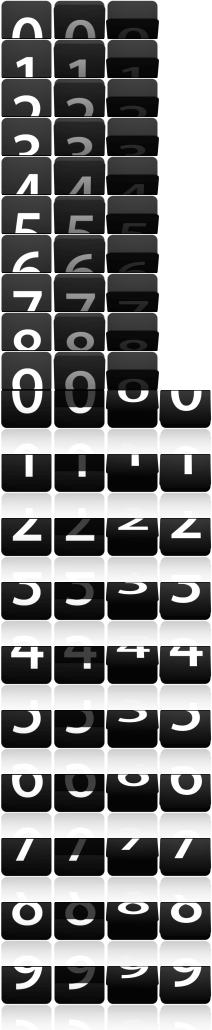
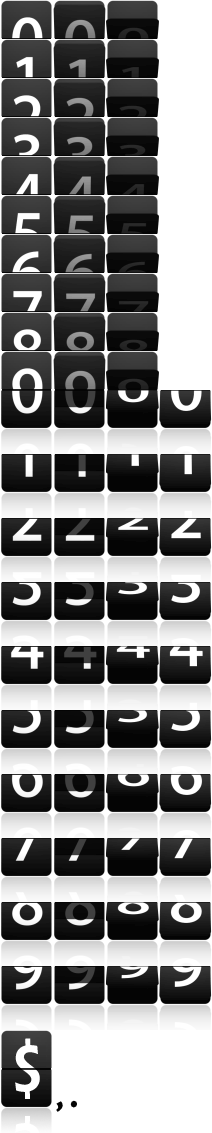
Changed default counter ID; basing styles on class name now so don't need to alter CSS for multiple counters; removed idPre because was pointless when needing to set a unique ID for each counter - just use that instead; added comma to digits sprite.

diff --git a/js/flipcounter.min.js b/js/flipcounter.min.js
@@ -1,6 +1,6 @@
 /**
  * Apple-Style Flip Counter
- * Version 0.5.2 - April 19, 2011 
+ * Version 0.5.3 - May 7, 2011 
  *
  * Copyright (c) 2010 Chris Nanney
  * http://cnanney.com/journal/code/apple-style-counter-revisited/
@@ -8,12 +8,12 @@
  * Licensed under MIT
  * http://www.opensource.org/licenses/mit-license.php
  */
-var flipCounter=function(x,B){function u(){l=a.value;a.value+=a.inc;h=a.value;r(l,h);a.auto===!0&&(n=setTimeout(u,a.pace))}function y(d,f,b){var c=a.value,e=typeof f=="undefined"?!1:f,g=typeof b=="undefined"?1:b;e===!0&&g--;c!=d?(l=a.value,a.auto=!0,c+a.inc<=d&&g!=0?c+=a.inc:c=d,a.value=c,h=a.value,r(l,h),n=setTimeout(function(){y(d,e,g)},a.pace)):a.auto=!1}function r(d,f){v=d.toString().split("").reverse();s=f.toString().split("").reverse();var b,c=v.length,e=s.length;if(e>c)for(b=e-c;b>0;){var g=
-s[e-b],m=Number(e-b+1)-1;i=j.createElement("ul");i.className="cd";i.id=a.idPre+"_d"+m;i.innerHTML='<li class="t" id="'+a.idPre+"_t_d"+m+'"></li><li class="b" id="'+a.idPre+"_b_d"+m+'"></li>';if(m%3==0)o=j.createElement("ul"),o.className="cd",o.innerHTML='<li class="s"></li>',k.insertBefore(o,k.firstChild);k.insertBefore(i,k.firstChild);j.getElementById(a.idPre+"_t_d"+m).style.backgroundPosition="0 -"+g*a.tFH+"px";j.getElementById(a.idPre+"_b_d"+m).style.backgroundPosition="0 -"+(g*a.bFH+a.bOffset)+
-"px";b--}if(e<c)for(b=c-e;b>0;){e=j.getElementById(a.idPre+"_d"+(c-b));k.removeChild(e);e=k.firstChild.firstChild;if((" "+e.className+" ").indexOf(" s ")>-1)e=e.parentNode,k.removeChild(e);b--}for(b=0;b<c;b++)s[b]!=v[b]&&C(b,v[b],s[b])}function C(d,f,b){function c(){if(g<7){m=g<3?"t":"b";if(h=j.getElementById(a.idPre+"_"+m+"_d"+d))h.style.backgroundPosition=i[g];g++;g!=3?setTimeout(c,e):c()}}var e,g=0,m,h,i=["-"+a.fW+"px -"+f*a.tFH+"px",a.fW*-2+"px -"+f*a.tFH+"px","0 -"+b*a.tFH+"px","-"+a.fW+"px -"+
-(f*a.bFH+a.bOffset)+"px",a.fW*-2+"px -"+(b*a.bFH+a.bOffset)+"px",a.fW*-3+"px -"+(b*a.bFH+a.bOffset)+"px","0 -"+(b*a.bFH+a.bOffset)+"px"];if(a.auto===!0&&a.pace<=300)switch(d){case 0:e=a.pace/6;break;case 1:e=a.pace/5;break;case 2:e=a.pace/4;break;case 3:e=a.pace/3;break;default:e=a.pace/1.5}else e=80;e=e>80?80:e;c()}function A(a,f,b,c,e){var g={result:!0};g.cond1=a/f>=1?!0:!1;g.cond2=f*b<=a?!0:!1;g.cond3=Math.abs(f*b-a)<=10?!0:!1;g.cond4=Math.abs(f*c-e)<=100?!0:!1;g.cond5=f*c<=e?!0:!1;if(g.cond1&&
-g.cond2&&g.cond4&&g.cond5){a=Math.abs(a-f*b)+Math.abs(f*c-e);if(p.q===null)p.q=a;if(a<=p.q)p.pace=c,p.inc=b}for(b=1;b<=5;b++)if(g["cond"+b]===!1)g.result=!1;return g}function q(a){return!isNaN(parseFloat(a))&&isFinite(a)}function z(){clearTimeout(n);n=null}var w={value:0,inc:1,pace:1E3,auto:!0,tFH:39,bFH:64,fW:53,bOffset:390,idPre:"counter"},a=B||{},j=window.document,k=x&&x!=""?j.getElementById(x):j.getElementById("counter"),t;for(t in w)a[t]=t in a?a[t]:w[t];var v=[],s=[],l,h,n=null,i,o,p={q:null,
-pace:0,inc:0};this.setValue=function(d){if(q(d))l=a.value,h=d,a.value=d,r(l,h);return this};this.setIncrement=function(d){a.inc=q(d)?d:w.inc;return this};this.setPace=function(d){a.pace=q(d)?d:w.pace;return this};this.setAuto=function(d){if(d&&!a.atuo)a.auto=!0,u();if(!d&&a.auto)n&&z(),a.auto=!1;return this};this.step=function(){a.auto||u();return this};this.add=function(d){if(q(d))l=a.value,a.value+=d,h=a.value,r(l,h);return this};this.subtract=function(d){if(q(d))l=a.value,a.value-=d,a.value>=0?
-h=a.value:(h="0",a.value=0),r(l,h);return this};this.incrementTo=function(d,f,b){n&&z();if(typeof f!="undefined"){var f=q(f)?f*1E3:1E4,b=typeof b!="undefined"&&q(b)?b:a.pace,c=typeof d!="undefined"&&q(d)?d-a.value:0,e,g,h,i=0;p.q=null;b=f/c>b?Math.round(f/c/10)*10:b;e=Math.floor(f/b);g=Math.floor(c/e);h=A(c,e,g,b,f);if(c>0){for(;h.result===!1&&i<100;)b+=10,e=Math.floor(f/b),g=Math.floor(c/e),h=A(c,e,g,b,f),i++;i==100?(a.inc=p.inc,a.pace=p.pace):(a.inc=g,a.pace=b);y(d,!0,e)}}else y(d)};this.getValue=
-function(){return a.value};this.stop=function(){n&&z();return this};(function(d){var d=d.toString(),f=d.length,b=1,c;for(c=0;c<f;c++){i=j.createElement("ul");i.className="cd";i.id=a.idPre+"_d"+c;i.innerHTML=i.innerHTML='<li class="t" id="'+a.idPre+"_t_d"+c+'"></li><li class="b" id="'+a.idPre+"_b_d"+c+'"></li>';k.insertBefore(i,k.firstChild);if(b!=f&&b%3==0)o=j.createElement("ul"),o.className="cd",o.innerHTML='<li class="s"></li>',k.insertBefore(o,k.firstChild);b++}d=d.toString().split("").reverse();
-for(c=0;c<f;c++)j.getElementById(a.idPre+"_t_d"+c).style.backgroundPosition="0 -"+d[c]*a.tFH+"px",j.getElementById(a.idPre+"_b_d"+c).style.backgroundPosition="0 -"+(d[c]*a.bFH+a.bOffset)+"px";a.auto===!0&&(n=setTimeout(u,a.pace))})(a.value)};
+var flipCounter=function(y,C){function v(){m=a.value;a.value+=a.inc;h=a.value;s(m,h);a.auto===!0&&(o=setTimeout(v,a.pace))}function z(d,f,b){var c=a.value,e=typeof f=="undefined"?!1:f,g=typeof b=="undefined"?1:b;e===!0&&g--;c!=d?(m=a.value,a.auto=!0,c+a.inc<=d&&g!=0?c+=a.inc:c=d,a.value=c,h=a.value,s(m,h),o=setTimeout(function(){z(d,e,g)},a.pace)):a.auto=!1}function s(d,f){w=d.toString().split("").reverse();t=f.toString().split("").reverse();var b,c=w.length,e=t.length;if(e>c)for(b=e-c;b>0;){var g=
+t[e-b],n=Number(e-b+1)-1;i=k.createElement("ul");i.className="cd";i.id=j+"_d"+n;i.innerHTML='<li class="t" id="'+j+"_t_d"+n+'"></li><li class="b" id="'+j+"_b_d"+n+'"></li>';if(n%3==0)p=k.createElement("ul"),p.className="cd",p.innerHTML='<li class="s"></li>',l.insertBefore(p,l.firstChild);l.insertBefore(i,l.firstChild);k.getElementById(j+"_t_d"+n).style.backgroundPosition="0 -"+g*a.tFH+"px";k.getElementById(j+"_b_d"+n).style.backgroundPosition="0 -"+(g*a.bFH+a.bOffset)+"px";b--}if(e<c)for(b=c-e;b>
+0;){e=k.getElementById(j+"_d"+(c-b));l.removeChild(e);e=l.firstChild.firstChild;if((" "+e.className+" ").indexOf(" s ")>-1)e=e.parentNode,l.removeChild(e);b--}for(b=0;b<c;b++)t[b]!=w[b]&&D(b,w[b],t[b])}function D(d,f,b){function c(){if(g<7){n=g<3?"t":"b";if(h=k.getElementById(j+"_"+n+"_d"+d))h.style.backgroundPosition=i[g];g++;g!=3?setTimeout(c,e):c()}}var e,g=0,n,h,i=["-"+a.fW+"px -"+f*a.tFH+"px",a.fW*-2+"px -"+f*a.tFH+"px","0 -"+b*a.tFH+"px","-"+a.fW+"px -"+(f*a.bFH+a.bOffset)+"px",a.fW*-2+"px -"+
+(b*a.bFH+a.bOffset)+"px",a.fW*-3+"px -"+(b*a.bFH+a.bOffset)+"px","0 -"+(b*a.bFH+a.bOffset)+"px"];if(a.auto===!0&&a.pace<=300)switch(d){case 0:e=a.pace/6;break;case 1:e=a.pace/5;break;case 2:e=a.pace/4;break;case 3:e=a.pace/3;break;default:e=a.pace/1.5}else e=80;e=e>80?80:e;c()}function B(a,f,b,c,e){var g={result:!0};g.cond1=a/f>=1?!0:!1;g.cond2=f*b<=a?!0:!1;g.cond3=Math.abs(f*b-a)<=10?!0:!1;g.cond4=Math.abs(f*c-e)<=100?!0:!1;g.cond5=f*c<=e?!0:!1;if(g.cond1&&g.cond2&&g.cond4&&g.cond5){a=Math.abs(a-
+f*b)+Math.abs(f*c-e);if(q.q===null)q.q=a;if(a<=q.q)q.pace=c,q.inc=b}for(b=1;b<=5;b++)if(g["cond"+b]===!1)g.result=!1;return g}function r(a){return!isNaN(parseFloat(a))&&isFinite(a)}function A(){clearTimeout(o);o=null}var x={value:0,inc:1,pace:1E3,auto:!0,tFH:39,bFH:64,fW:53,bOffset:390},a=C||{},k=window.document,j=typeof y!=="undefined"&&y!==""?y:"flip-counter",l=k.getElementById(j),u;for(u in x)a[u]=u in a?a[u]:x[u];var w=[],t=[],m,h,o=null,i,p,q={q:null,pace:0,inc:0};this.setValue=function(d){if(r(d))m=
+a.value,h=d,a.value=d,s(m,h);return this};this.setIncrement=function(d){a.inc=r(d)?d:x.inc;return this};this.setPace=function(d){a.pace=r(d)?d:x.pace;return this};this.setAuto=function(d){if(d&&!a.atuo)a.auto=!0,v();if(!d&&a.auto)o&&A(),a.auto=!1;return this};this.step=function(){a.auto||v();return this};this.add=function(d){if(r(d))m=a.value,a.value+=d,h=a.value,s(m,h);return this};this.subtract=function(d){if(r(d))m=a.value,a.value-=d,a.value>=0?h=a.value:(h="0",a.value=0),s(m,h);return this};this.incrementTo=
+function(d,f,b){o&&A();if(typeof f!="undefined"){var f=r(f)?f*1E3:1E4,b=typeof b!="undefined"&&r(b)?b:a.pace,c=typeof d!="undefined"&&r(d)?d-a.value:0,e,g,h,i=0;q.q=null;b=f/c>b?Math.round(f/c/10)*10:b;e=Math.floor(f/b);g=Math.floor(c/e);h=B(c,e,g,b,f);if(c>0){for(;h.result===!1&&i<100;)b+=10,e=Math.floor(f/b),g=Math.floor(c/e),h=B(c,e,g,b,f),i++;i==100?(a.inc=q.inc,a.pace=q.pace):(a.inc=g,a.pace=b);z(d,!0,e)}}else z(d)};this.getValue=function(){return a.value};this.stop=function(){o&&A();return this};
+(function(d){var f=d.toString(),d=f.length,b=1,c;for(c=0;c<d;c++){i=k.createElement("ul");i.className="cd";i.id=j+"_d"+c;i.innerHTML=i.innerHTML='<li class="t" id="'+j+"_t_d"+c+'"></li><li class="b" id="'+j+"_b_d"+c+'"></li>';l.insertBefore(i,l.firstChild);if(b!=d&&b%3==0)p=k.createElement("ul"),p.className="cd",p.innerHTML='<li class="s"></li>',l.insertBefore(p,l.firstChild);b++}f=f.toString().split("").reverse();for(c=0;c<d;c++)k.getElementById(j+"_t_d"+c).style.backgroundPosition="0 -"+f[c]*a.tFH+
+"px",k.getElementById(j+"_b_d"+c).style.backgroundPosition="0 -"+(f[c]*a.bFH+a.bOffset)+"px";a.auto===!0&&(o=setTimeout(v,a.pace))})(a.value)};

diff --git a/js/flipcounter.js b/js/flipcounter.js
@@ -1,6 +1,6 @@
 /**
  * Apple-Style Flip Counter
- * Version 0.5.2 - April 19, 2011 
+ * Version 0.5.3 - May 7, 2011 
  *
  * Copyright (c) 2010 Chris Nanney
  * http://cnanney.com/journal/code/apple-style-counter-revisited/
@@ -20,13 +20,13 @@ var flipCounter = function(d, options){
 		tFH: 39,
 		bFH: 64,
 		fW: 53,
-		bOffset: 390,
-		idPre: 'counter'
+		bOffset: 390
 	};
 	
 	var o = options || {},
 	doc = window.document,
-	div = d && d != '' ? doc.getElementById(d) : doc.getElementById("counter");
+	divId = typeof d !== 'undefined' && d !== '' ? d : 'flip-counter',
+	div = doc.getElementById(divId);
 	
 	for (var opt in defaults) o[opt] = (opt in o) ? o[opt] : defaults[opt];
 
@@ -314,7 +314,7 @@ var flipCounter = function(d, options){
 		function animate(){
 			if (step < 7){
 				w = step < 3 ? 't' : 'b';
-				a = doc.getElementById(o.idPre + "_" + w + "_d" + n);
+				a = doc.getElementById(divId + "_" + w + "_d" + n);
 				if (a) a.style.backgroundPosition = bp[step];
 				step++;
 				if (step != 3) setTimeout(animate, speed);
@@ -335,8 +335,8 @@ var flipCounter = function(d, options){
 		var li = Number(len) - 1;
 		newDigit = doc.createElement("ul");
 		newDigit.className = 'cd';
-		newDigit.id = o.idPre + '_d' + li;
-		newDigit.innerHTML = '<li class="t" id="' + o.idPre + '_t_d' + li + '"></li><li class="b" id="' + o.idPre + '_b_d' + li + '"></li>';
+		newDigit.id = divId + '_d' + li;
+		newDigit.innerHTML = '<li class="t" id="' + divId + '_t_d' + li + '"></li><li class="b" id="' + divId + '_b_d' + li + '"></li>';
 		
 		if (li % 3 == 0){
 			newComma = doc.createElement("ul");
@@ -346,13 +346,13 @@ var flipCounter = function(d, options){
 		}
 		
 		div.insertBefore(newDigit, div.firstChild);
-		doc.getElementById(o.idPre + "_t_d" + li).style.backgroundPosition = '0 -' + (digit * o.tFH) + 'px';
-		doc.getElementById(o.idPre + "_b_d" + li).style.backgroundPosition = '0 -' + (digit * o.bFH + o.bOffset) + 'px';
+		doc.getElementById(divId + "_t_d" + li).style.backgroundPosition = '0 -' + (digit * o.tFH) + 'px';
+		doc.getElementById(divId + "_b_d" + li).style.backgroundPosition = '0 -' + (digit * o.bFH + o.bOffset) + 'px';
 	}
 	
 	// Removes digit
 	function removeDigit(id){
-		var remove = doc.getElementById(o.idPre + "_d" + id);
+		var remove = doc.getElementById(divId + "_d" + id);
 		div.removeChild(remove);
 
 		// Check for leading comma
@@ -364,16 +364,16 @@ var flipCounter = function(d, options){
 	}
 
 	// Sets the correct digits on load
-	function initialDigitCheck(initial){
+	function initialDigitCheck(init){
 		// Creates the right number of digits
-		var initial = initial.toString(),
+		var initial = init.toString(),
 		count = initial.length,
 		bit = 1, i;
 		for (i = 0; i < count; i++){
 			newDigit = doc.createElement("ul");
 			newDigit.className = 'cd';
-			newDigit.id = o.idPre + '_d' + i;
-			newDigit.innerHTML = newDigit.innerHTML = '<li class="t" id="' + o.idPre + '_t_d' + i + '"></li><li class="b" id="' + o.idPre + '_b_d' + i + '"></li>';
+			newDigit.id = divId + '_d' + i;
+			newDigit.innerHTML = newDigit.innerHTML = '<li class="t" id="' + divId + '_t_d' + i + '"></li><li class="b" id="' + divId + '_b_d' + i + '"></li>';
 			div.insertBefore(newDigit, div.firstChild);
 			if (bit != (count) && bit % 3 == 0){
 				newComma = doc.createElement("ul");
@@ -386,8 +386,8 @@ var flipCounter = function(d, options){
 		// Sets them to the right number
 		var digits = splitToArray(initial);
 		for (i = 0; i < count; i++){
-			doc.getElementById(o.idPre + "_t_d" + i).style.backgroundPosition = '0 -' + (digits[i] * o.tFH) + 'px';
-			doc.getElementById(o.idPre + "_b_d" + i).style.backgroundPosition = '0 -' + (digits[i] * o.bFH + o.bOffset) + 'px';
+			doc.getElementById(divId + "_t_d" + i).style.backgroundPosition = '0 -' + (digits[i] * o.tFH) + 'px';
+			doc.getElementById(divId + "_b_d" + i).style.backgroundPosition = '0 -' + (digits[i] * o.bFH + o.bOffset) + 'px';
 		}
 		// Do first animation
 		if (o.auto === true) nextCount = setTimeout(doCount, o.pace);

diff --git a/index.html b/index.html
@@ -28,12 +28,12 @@
 
 	<div class="explain">
 		<p>This counter was initialized with the following code:</p>
-		<code>var myCounter = new flipCounter('counter', {value:10000, inc:123, pace:600, auto:true});</code>
+		<code>var myCounter = new flipCounter('flip-counter', {value:10000, inc:123, pace:600, auto:true});</code>
 		<p>Use the controls below to make changes to the counter using built-in methods.</p>
 		<p><a class="back" href="http://cnanney.com/journal/code/apple-style-counter-revisited/">http://cnanney.com/journal/code/apple-style-counter-revisited/</a></p>
 	</div>
 
-	<div id="wrapper"><div id="counter"></div></div>
+	<div id="wrapper"><div id="flip-counter" class="flip-counter"></div></div>
 
 	<div class="clear"></div>
 	<ul id="demo_controls">
@@ -112,7 +112,7 @@
 	$(function(){
 		
 		// Initialize a new counter
-		var myCounter = new flipCounter('counter', {value:10000, inc:123, pace:600, auto:true});
+		var myCounter = new flipCounter('flip-counter', {value:10000, inc:123, pace:600, auto:true});
 
 		/**
 		 * Demo controls

diff --git a/css/counter.css b/css/counter.css
@@ -5,11 +5,12 @@ Set image paths accordingly.
 
 THIS YOU NEED TO KEEP.
 
-This assumes the ID of the counter div is "#counter"
+So you can have multiple counters on a page, just make sure each one has a class of "flip-counter".
 
 */
 
-#counter ul.cd{float:left;list-style-type:none;margin:0;padding:0}
-#counter li.t{background:url(../img/digits.png) 0 0 no-repeat;width:53px;height:39px}
-#counter li.b{background:url(../img/digits.png) 0 0 no-repeat;width:53px;height:64px}
-#counter li.s{background:url(../img/comma.png) 2px 75px no-repeat;width:12px;height:100px}
+.flip-counter ul.cd{float:left;list-style-type:none;margin:0;padding:0}
+.flip-counter li{background:url(../img/digits.png) 0 0 no-repeat}
+.flip-counter li.t{background-position:0 0;width:53px;height:39px}
+.flip-counter li.b{background-position:0 0;width:53px;height:64px}
+.flip-counter li.s{background-position:-53px -1030px;width:14px;height:103px}

diff --git a/css/demo.css b/css/demo.css
@@ -11,7 +11,7 @@ I know it's messy... it's a demo.
 body{font-family:verdana}
 p{line-height:16px;margin:0 0 5px}
 #wrapper{float:right;position:relative;left:-50%;margin-top:30px}
-#counter{position:relative;left:50%;clear:both}
+#flip-counter{position:relative;left:50%;clear:both}
 .clear{clear:both}
 #demo_controls{padding:0;width:700px;margin:20px auto;list-style-type:none}
 #demo_controls li{width:700px;text-align:center;margin:0 0 20px;font-weight:bold;font-size:13px}
